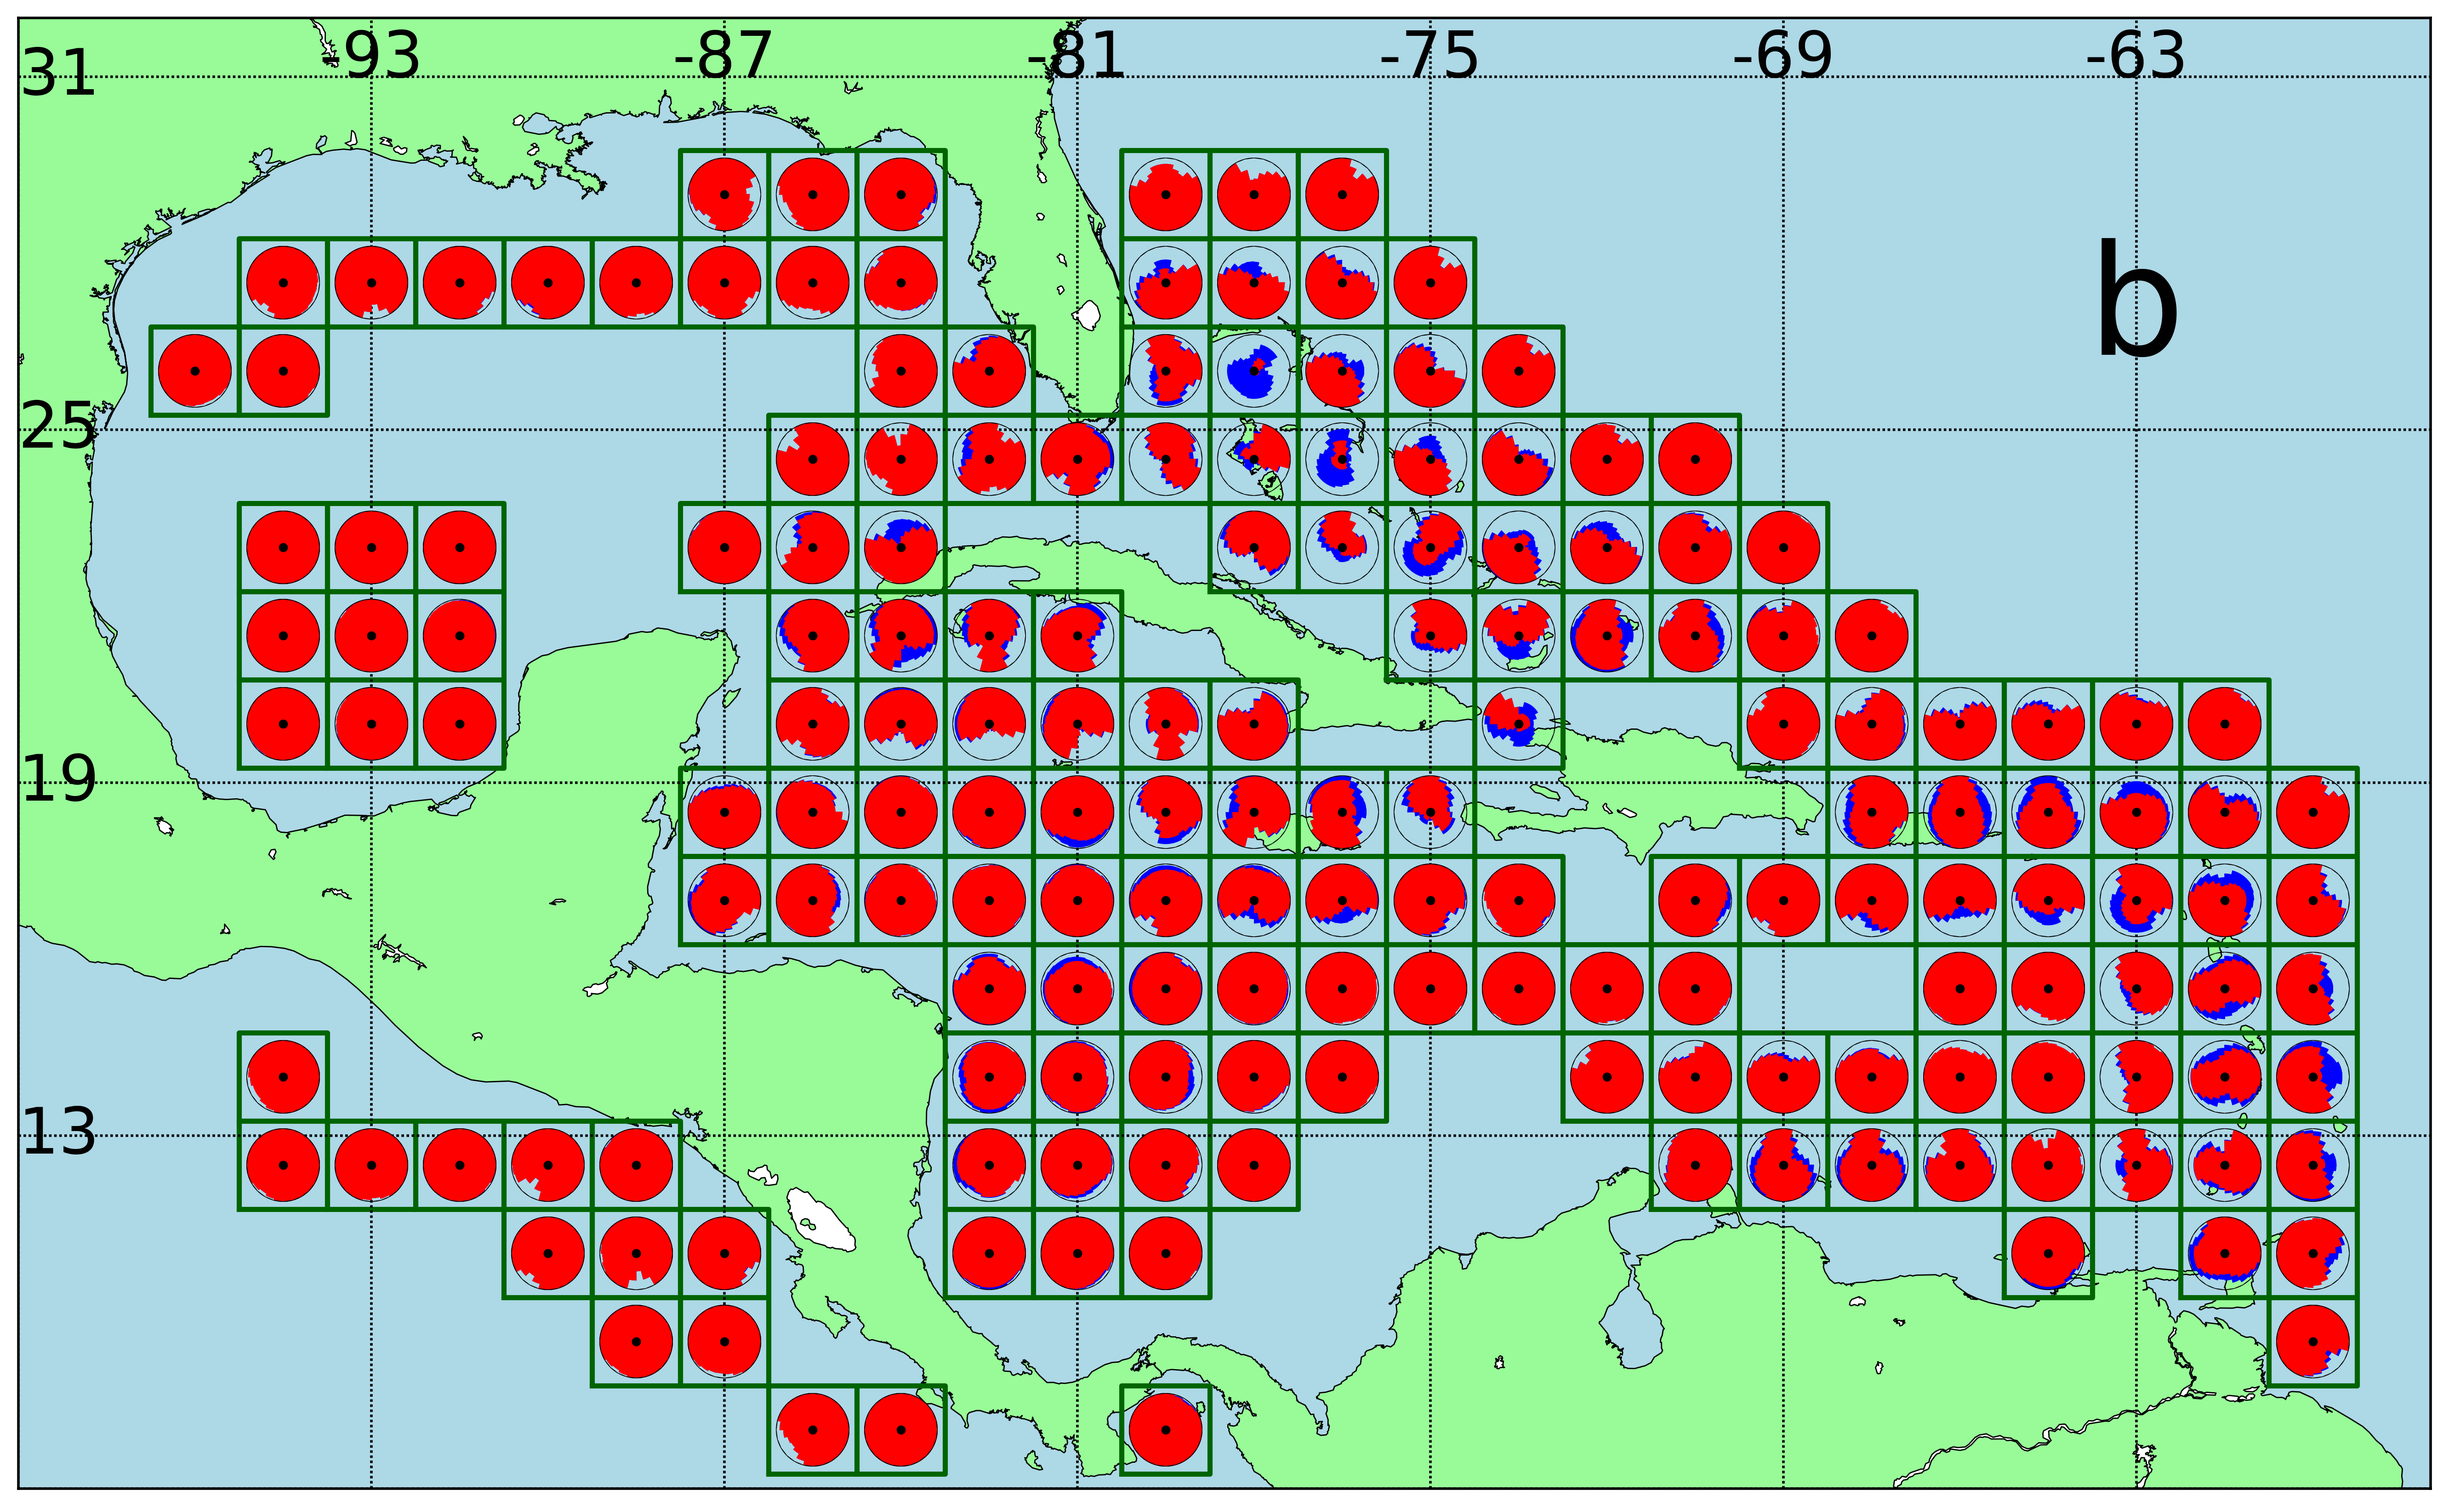
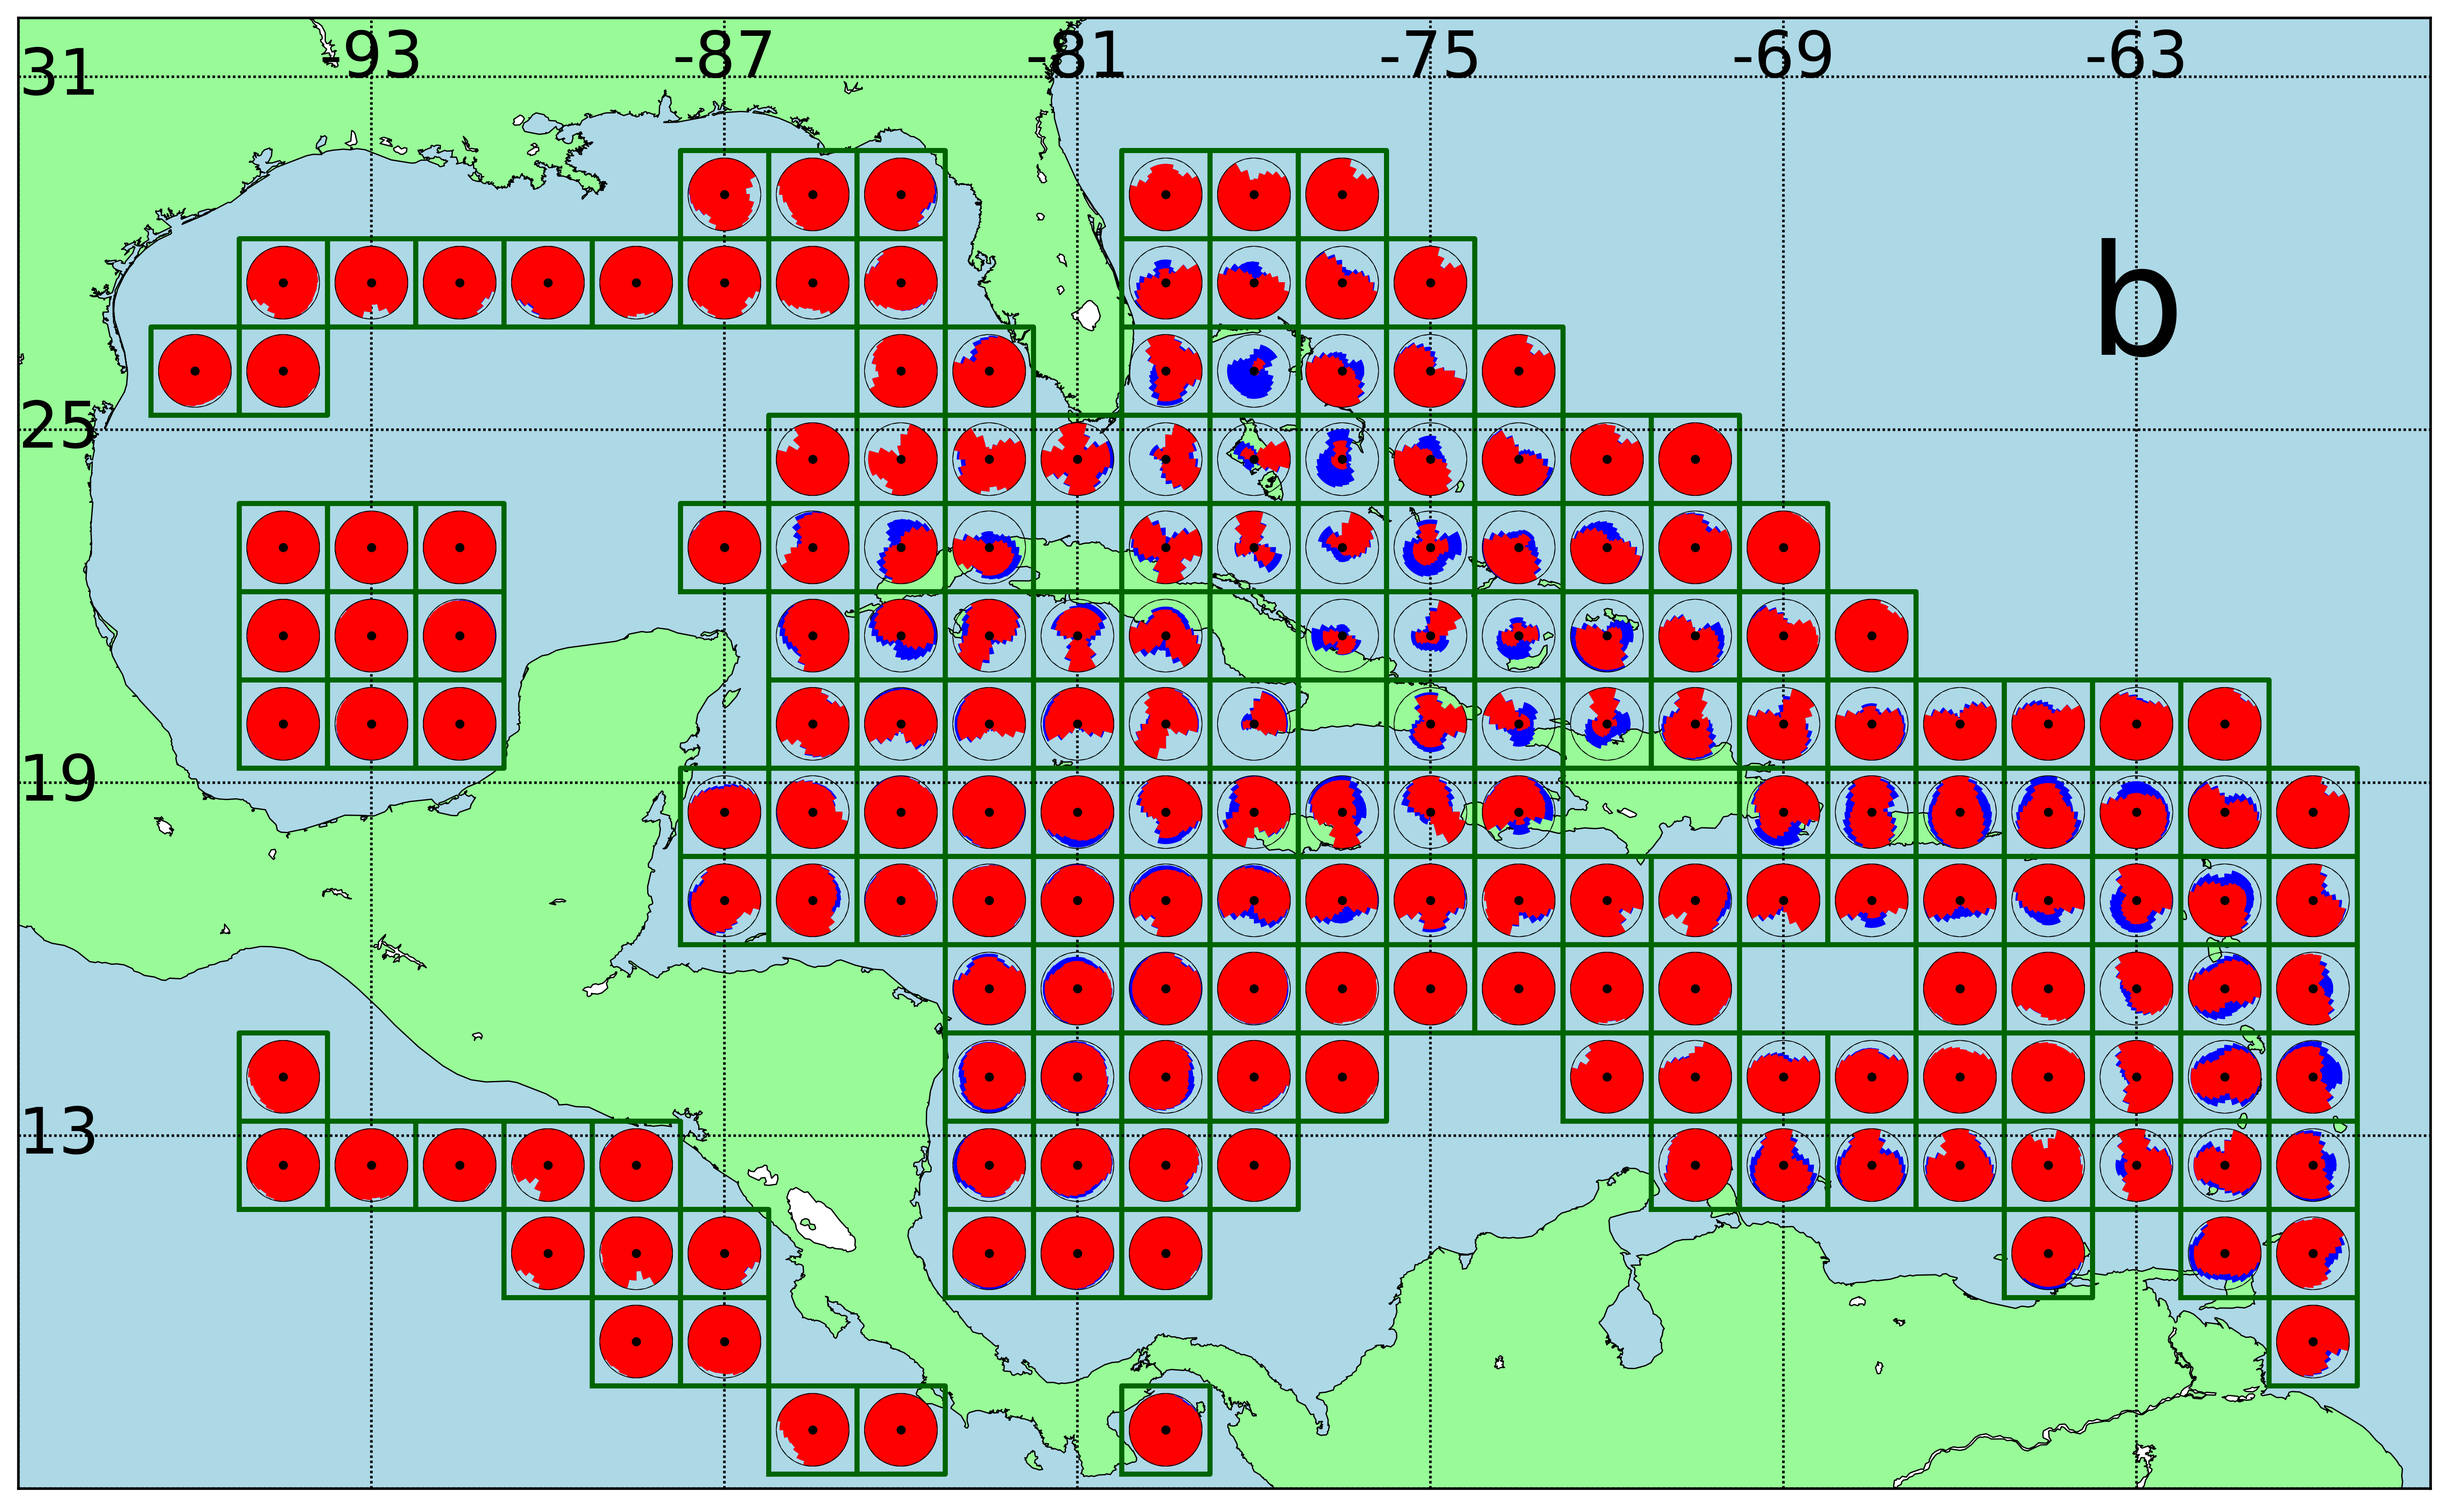
updated plotOutAlphaBeta (script related with the case study with alphaBetaLab)

diff --git a/ww3/samples/obstructionsCaribbeans/bathyAndObstructions/plotOutAlphaBeta.py b/ww3/samples/obstructionsCaribbeans/bathyAndObstructions/plotOutAlphaBeta.py
@@ -5,6 +5,48 @@ import numpy as np
 
 from alphaBetaLab.plot import abAlphaBetaPlotter
 import obstFileBuilder
+from alphaBetaLab import abEtopo1BathyLoader, abHighResAlphaMatrix, abRectangularGridBuilder, abCoastalCellDetector
+
+
+
+
+def getHighResAlphas():
+  llcrnr = [-100, 5]
+  urcrnr = [-55, 30]
+
+  zlim = -.1
+  x, y, z = abEtopo1BathyLoader.loadBathy(obstFileBuilder.etopoFilePath, llcrnr, urcrnr)
+  alphamtx = np.ones(z.shape)
+  alphamtx[z > zlim] = 0
+  return abHighResAlphaMatrix.abHighResAlphaMatrix(x, y, alphamtx)
+
+
+
+
+def getLowResGrid(hiResAlphaMtx):
+  dx, dy = 1.5, 1.5
+  minX, minY = -180, -70
+  nx, ny = 240, 94
+
+  def getMask():
+    msk = np.zeros([ny, nx])
+    fl = open(obstFileBuilder.maskFilePath)
+    ix = 0
+    for ln in fl:
+      if ix >= nx:
+        raise Exception('wrong mask file: lon dimension does not match')
+      vlStrs = ln.strip(' \n').split()
+      vls = [int(s) for s in vlStrs]
+      msk[ix, :] = vls
+      ix += 1
+    return msk
+    
+  mask = getMask()
+  regGridBld = abRectangularGridBuilder.abRectangularGridBuilder(minX, minY, dx, dy, nx, ny, mask, nParWorker = obstFileBuilder.nParWorker)
+  coastalCellDetector = abCoastalCellDetector.abCoastalCellDetector(None)
+  return regGridBld.buildGrid(hiResAlphaMtx, coastalCellDetector)
+
+  
 
 
 def plotOutAlphaBeta2Figs(plotFigureLocal = True, plotFigureShadow = True):
@@ -15,10 +57,10 @@ def plotOutAlphaBeta2Figs(plotFigureLocal = True, plotFigureShadow = True):
   pltlonlims = (-99, -58)
   pltlatlims = (7, 32)
 
-  hResAlphaMtx = obstFileBuilder.getHighResAlphas()
-  mesh = obstFileBuilder.getLowResGrid(hResAlphaMtx)
-  dirs = obstFileBuilder.dirs
-  nfreq = obstFileBuilder.nfreq 
+  hResAlphaMtx = getHighResAlphas()
+  mesh = getLowResGrid(hResAlphaMtx)
+  dirs = np.linspace(0, 2*np.pi, 25)
+  nfreq = 25
  
   abFileDir = os.path.abspath(os.path.dirname(__file__))
 
@@ -64,30 +106,10 @@ def plotOutAlphaBeta2Figs(plotFigureLocal = True, plotFigureShadow = True):
     fg.show()
 
 
-def plotOutAlphaBeta1Fig():
-  moddir = os.path.dirname(os.path.abspath(__file__))
-  outPlotFile = os.path.join(moddir, 'fig/alphaBeta.png')
-
-  pltlonlims = (-99, -58)
-  pltlatlims = (7, 32)
-
-  hResAlphaMtx = obstFileBuilder.getHighResAlphas()
-  mesh = obstFileBuilder.getLowResGrid(hResAlphaMtx)
-  dirs = obstFileBuilder.dirs
-  nfreq = obstFileBuilder.nfreq 
- 
-  abFileDir = os.path.abspath(os.path.dirname(__file__))
-  abLocFileName = os.path.join(abFileDir, 'output', 'obstructions_local.g_glb150.in')
-  abShdFileName = os.path.join(abFileDir, 'output', 'obstructions_shadow.g_glb150.in')
-
-  abAlphaBetaPlotter.plotLocalShadowFigure(abLocFileName, abShdFileName, mesh, dirs, nfreq, pltlonlims, pltlatlims)
-
-  fg.savefig(outPlotFile, dpi = 400)
-  fg.show()
-  
   
 
 
 if __name__ == '__main__':
-  plotOutAlphaBeta()
+  plotOutAlphaBeta2Figs()
+  input('Wait for the plots to be ready. When you\'re done press enter')
 
